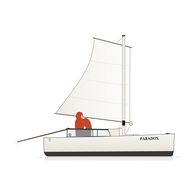
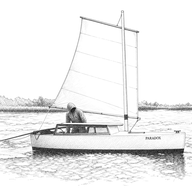
Pen-and-ink illustrations, white pages
- Five approved pen-and-ink drawings of Paradoxes (illustration01 to 05) under the titles of
  chapters 3, 11, 14, 16 and 17, with captions; illustration01 is the overview's picture and
  the icon and lock-screen artwork.
- The old SVG cover is gone.
- The site is always white, with no dark mode, to match the drawings.
- The colophon says the drawings were made with OpenAI gpt-image-2 from photographs.

diff --git a/ch16.html b/ch16.html
@@ -6,12 +6,11 @@
 <meta name="robots" content="noindex, nofollow">
 <title>16. What Paradoxes have done · A guide to the Paradox sailboat</title>
 <meta name="description" content="16. What Paradoxes have done: a chapter of A guide to the Paradox sailboat by Anders Nygaard, to read or to hear.">
-<meta name="theme-color" content="#f6f3ec" media="(prefers-color-scheme: light)">
-<meta name="theme-color" content="#16181a" media="(prefers-color-scheme: dark)">
+<meta name="theme-color" content="#ffffff">
 <link rel="icon" href="cover-192.png" type="image/png">
 <link rel="apple-touch-icon" href="cover-192.png">
 <link rel="manifest" href="manifest.webmanifest">
-<link rel="stylesheet" href="style.css?v=9c5b62d98f">
+<link rel="stylesheet" href="style.css?v=f990e6cea2">
 </head>
 <!-- source: phase 06 - proof reading/ch16-what-paradoxes-have-done.md, updated 2026-10-14 -->
 <body>
@@ -32,6 +31,7 @@
 <p class="blurb"><em>What the fleet has done, the boats and the people who built them, how the boat has been changed and how the design survived without a company.</em></p>
 <p class="kicker">Chapter 16</p>
 <h1>What Paradoxes have done</h1>
+<figure class="illustration"><img src="illustration04.png" width="1280" height="854" alt="A Paradox at the Bosunator Challenge, 2013, a pen-and-ink drawing" decoding="async"><figcaption>A Paradox at the Bosunator Challenge, 2013.</figcaption></figure>
 <h2 id="cape-leeuwin-and-north-to-shark-bay">Cape Leeuwin and north to Shark Bay</h2>
 <p>Geoff Davis set out from Fremantle in February 2011 to do what no other Paradox is recorded as having attempted: take Small Fry around Cape Leeuwin, the point on the continent's southwestern tip where the Indian Ocean meets the Southern Ocean and the weather of both. The approach alone took the better part of a week. He sailed out through the bridges at Fremantle by night, on a favourable wind and tide, and made good progress down the coast to Bunker Bay, near Cape Naturaliste, where he anchored. Bad weather held him there a second night and slowed him further; nearing the cape, conditions turned hard enough that he rode them out some distance offshore before working in to Hamlin Island, about ten miles short of his goal. There his anchor dragged in the night and left the boat aground on the beach. He freed her the next morning and pressed on south.</p>
 <p>The rounding itself, on 22 February, took several hours of repeated attempts against a southeast wind gusting to about 20 knots and a building sea, broken by one lull that let him carry more sail and finally claw around the last stretch of coast. Of the whole passage, not the rounding alone, he wrote to the builders' mailing list: &quot;I found the whole area to be the most menacing place I've ever sailed.&quot; Small Fry had sailed in stronger wind and bigger seas before, always well out to sea; what made this different was everything happening close in at once, reefs and islands scattered everywhere, waves breaking where no reef was visible, conditions changing by the minute and an ugly lee shore under her stern the whole time. Once round, she anchored at Seal Island on a rock bottom for two nights, riding out a 20-knot gust in the island's lee on the second and wishing, Davis admitted, that he had brought more chain and a spare anchor.</p>

diff --git a/ch03.html b/ch03.html
@@ -6,12 +6,11 @@
 <meta name="robots" content="noindex, nofollow">
 <title>3. Paradox · A guide to the Paradox sailboat</title>
 <meta name="description" content="3. Paradox: a chapter of A guide to the Paradox sailboat by Anders Nygaard, to read or to hear.">
-<meta name="theme-color" content="#f6f3ec" media="(prefers-color-scheme: light)">
-<meta name="theme-color" content="#16181a" media="(prefers-color-scheme: dark)">
+<meta name="theme-color" content="#ffffff">
 <link rel="icon" href="cover-192.png" type="image/png">
 <link rel="apple-touch-icon" href="cover-192.png">
 <link rel="manifest" href="manifest.webmanifest">
-<link rel="stylesheet" href="style.css?v=9c5b62d98f">
+<link rel="stylesheet" href="style.css?v=f990e6cea2">
 </head>
 <!-- source: phase 06 - proof reading/ch03-paradox.md, updated 2026-10-14 -->
 <body>
@@ -30,6 +29,7 @@
 <main id="content" class="wrap">
 <p class="kicker">Chapter 3</p>
 <h1>Paradox</h1>
+<figure class="illustration"><img src="illustration01.png" width="1280" height="854" alt="Matt Layden aboard Paradox, a pen-and-ink drawing" decoding="async"><figcaption>Matt Layden aboard Paradox.</figcaption></figure>
 <p>Layden built Paradox in about four months of full-time work, by the fullest account the Bolducs have given, working in the Connecticut woods in 1993 at a cost of around $2,000 in that year's materials. He had no car, so the plywood and everything else needed came to the building site load by load, on his own bicycle trailer. He briefly considered running carbon-fibre tow inside the mast's staves to save weight, but built a plain wood mast instead for the sake of simplicity, the same preference that runs through every other choice in the boat. When she was finished, he launched her by skidding her down a steep ravine to the Salmon River below the site, a method that prompted one builder's own dry comment years afterward: no wonder these little boats have to be built tough.</p>
 <p>Paradox was Layden's fifth home-built boat, and in her the lessons of three earlier boats came together: Swamp Thing's chine runners and simple rig, Little Cruiser's thinking on interior room and on lines run down into the cabin where a sailor could reach every one of them, and Terrapin's hard proof that a narrow, self-righting hull mattered more in the end than a wide, roomy one. She was thirteen feet ten inches long and four feet wide, with no centerboard at all and, by the Bolducs' own count, only three running lines on the whole boat: one to raise the sail, one to reef it and one to sheet it. Little Cruiser, by comparison, carried twice as many.</p>
 <p>She went back to the simpler boom-furled lug sail of Swamp Thing and GJAC rather than Little Cruiser's battened, slab-reefed one, but improved it with a drum so the sail could be reefed from inside the cabin, and where her mast stepped through the deck, as on his earlier boats, he built in a small self-draining well for it to sit in rather than leave the step exposed to the weather. The five things the Bolducs singled out as Paradox's own particular character, taken together, are chine runners, seventy litres of fresh-water ballast, a self-righting hull, positive buoyancy and every line led back into the cabin where a sailor need never leave shelter to work one.</p>

diff --git a/ch14.html b/ch14.html
@@ -6,12 +6,11 @@
 <meta name="robots" content="noindex, nofollow">
 <title>14. Building a Paradox · A guide to the Paradox sailboat</title>
 <meta name="description" content="14. Building a Paradox: a chapter of A guide to the Paradox sailboat by Anders Nygaard, to read or to hear.">
-<meta name="theme-color" content="#f6f3ec" media="(prefers-color-scheme: light)">
-<meta name="theme-color" content="#16181a" media="(prefers-color-scheme: dark)">
+<meta name="theme-color" content="#ffffff">
 <link rel="icon" href="cover-192.png" type="image/png">
 <link rel="apple-touch-icon" href="cover-192.png">
 <link rel="manifest" href="manifest.webmanifest">
-<link rel="stylesheet" href="style.css?v=9c5b62d98f">
+<link rel="stylesheet" href="style.css?v=f990e6cea2">
 </head>
 <!-- source: phase 06 - proof reading/ch14-building-a-paradox.md, updated 2026-10-14 -->
 <body>
@@ -32,6 +31,7 @@
 <p class="blurb"><em>How a Paradox is built, and how she is sailed and lived in. A reader who will never build one can go on to chapter 15.</em></p>
 <p class="kicker">Chapter 14</p>
 <h1>Building a Paradox</h1>
+<figure class="illustration"><img src="illustration03.png" width="1280" height="854" alt="JoHanna at Shipstall Point, Poole Harbour, a pen-and-ink drawing" decoding="async"><figcaption>JoHanna at Shipstall Point, Poole Harbour.</figcaption></figure>
 <h2 id="the-plans">The plans</h2>
 <p>There is nothing to loft and no strongback to build once the plans themselves are in hand. Lofting, drawing a hull's curves out full size on a floor before cutting anything, is how most wooden boats still begin; Layden's own dimensioning system gives every part's shape directly, in millimetres, so a builder measures and cuts rather than draws. A strongback, the heavy jig many plywood hulls are built around, is likewise missing, and Don Elliott, who built The Edge and wrote the booklet builders still turn to, explained why in his own words: &quot;Paradox is built without a strongback. It's the best way to build a plywood boat. You can step in its middle, crouch down inside to measure or fit things. You can roll the hull over easily to work on it anyway you like, you have a lot of open space to do your job, besides, a strongback isn't part of the boat. Who needs the extra work?&quot; The sixth sheet of the set gives the cutting layout, which ten sheets of plywood yield which parts, and the order in which those parts go together.</p>
 <p>Derek Clark needed little more than that layout to get going. A first-time builder from Wolverhampton, in the English Midlands, he rated himself &quot;a mediocre to moderate woodworker&quot; who had not cut a dovetail in twenty years, and held that the design needed no cabinetmaker's standard of work anywhere on it. He built his own Paradox, Enuf, between 2004 and 2006, favoured plastic-handled secondhand chisels picked up cheaply at car-boot sales over anything that needed power, and closed his own published account of the build with a line still quoted back at nervous first-time builders: &quot;You could make this boat with just an half inch chisel.&quot;</p>

diff --git a/style.css b/style.css
@@ -1,28 +1,17 @@
-/* style.css: the web edition's one stylesheet. Light and dark follow the phone's setting. */
+/* style.css: the web edition's one stylesheet. Always white, like the paper of the book's ink drawings
+   (owner's rule 2026-10-19), so there is no dark mode. */
 :root {
-  --bg: #f6f3ec;
-  --fg: #24221f;
-  --muted: #6c675e;
-  --line: #dcd5c8;
-  --soft: #ece7dc;
+  --bg: #ffffff;
+  --fg: #222222;
+  --muted: #66645f;
+  --line: #e2e1de;
+  --soft: #f3f3f1;
   --accent: #b5412a;
   --on-accent: #ffffff;
-  --bar: rgba(246, 243, 236, 0.97);
+  --bar: rgba(255, 255, 255, 0.97);
   --serif: Charter, "Bitstream Charter", "Iowan Old Style", "Palatino Linotype", Palatino, Georgia, serif;
   --sans: system-ui, -apple-system, "Segoe UI", Roboto, "Helvetica Neue", Arial, sans-serif;
-  color-scheme: light dark;
-}
-@media (prefers-color-scheme: dark) {
-  :root {
-    --bg: #16181a;
-    --fg: #e6e2da;
-    --muted: #a19c93;
-    --line: #33373a;
-    --soft: #212427;
-    --accent: #e8735a;
-    --on-accent: #16181a;
-    --bar: rgba(22, 24, 26, 0.97);
-  }
+  color-scheme: light;
 }
 
 * { box-sizing: border-box; }
@@ -95,7 +84,12 @@ footer { padding-bottom: 2.5rem; font-family: var(--sans); }
 
 /* overview */
 .hero { text-align: center; padding-top: 1rem; }
-.hero img { width: 100%; height: auto; max-width: 30rem; border-radius: 10px; background: #fff; }
+.hero img { width: 100%; height: auto; max-width: 34rem; }
+
+/* chapter illustrations: ink drawings on white paper, set under the chapter title */
+.illustration { margin: 1rem 0 1.8rem; }
+.illustration img { display: block; width: 100%; height: auto; }
+.illustration figcaption { margin-top: 0.2rem; text-align: center; font: italic 0.9rem/1.4 var(--serif); color: var(--muted); }
 .hero h1 { margin: 1.2rem 0 0.4rem; }
 .byline { font-size: 1.15rem; margin: 0; }
 .edition { color: var(--muted); font-size: 0.95rem; }

diff --git a/index.html b/index.html
@@ -6,17 +6,16 @@
 <meta name="robots" content="noindex, nofollow">
 <title>A guide to the Paradox sailboat</title>
 <meta name="description" content="A guide to the Paradox sailboat by Anders Nygaard: every chapter to read or to hear.">
-<meta name="theme-color" content="#f6f3ec" media="(prefers-color-scheme: light)">
-<meta name="theme-color" content="#16181a" media="(prefers-color-scheme: dark)">
+<meta name="theme-color" content="#ffffff">
 <link rel="icon" href="cover-192.png" type="image/png">
 <link rel="apple-touch-icon" href="cover-192.png">
 <link rel="manifest" href="manifest.webmanifest">
-<link rel="stylesheet" href="style.css?v=9c5b62d98f">
+<link rel="stylesheet" href="style.css?v=f990e6cea2">
 </head>
 <body class="index">
 <main class="wrap">
 <header class="hero">
-<img src="cover.svg" width="1920" height="1460" alt="A drawing of Paradox under sail, after a photograph of Matt Layden aboard">
+<img src="illustration01.png" width="1280" height="854" alt="A pen-and-ink drawing of Matt Layden aboard Paradox under sail">
 <h1>A guide to the Paradox sailboat</h1>
 <p class="byline">Anders Nygaard</p>
 <p class="edition">Second edition. Proof-reading draft, October 2026.</p>
@@ -75,7 +74,7 @@
 </ol>
 
 <footer class="colophon">
-<p>Text updated 16 October 2026. The narration is read by an AI voice (OpenAI gpt-4o-mini-tts, voice Ash).</p>
+<p>Text updated 16 October 2026. The narration is read by an AI voice (OpenAI gpt-4o-mini-tts, voice Ash). The pen-and-ink drawings were made with OpenAI gpt-image-2 from photographs of the boats.</p>
 </footer>
 </main>
 <script type="application/json" id="page-data">{"kind":"index"}</script>

diff --git a/ch11.html b/ch11.html
@@ -6,12 +6,11 @@
 <meta name="robots" content="noindex, nofollow">
 <title>11. Mast, rig and sail · A guide to the Paradox sailboat</title>
 <meta name="description" content="11. Mast, rig and sail: a chapter of A guide to the Paradox sailboat by Anders Nygaard, to read or to hear.">
-<meta name="theme-color" content="#f6f3ec" media="(prefers-color-scheme: light)">
-<meta name="theme-color" content="#16181a" media="(prefers-color-scheme: dark)">
+<meta name="theme-color" content="#ffffff">
 <link rel="icon" href="cover-192.png" type="image/png">
 <link rel="apple-touch-icon" href="cover-192.png">
 <link rel="manifest" href="manifest.webmanifest">
-<link rel="stylesheet" href="style.css?v=9c5b62d98f">
+<link rel="stylesheet" href="style.css?v=f990e6cea2">
 </head>
 <!-- source: phase 06 - proof reading/ch11-mast-rig-and-sail.md, updated 2026-10-14 -->
 <body>
@@ -30,6 +29,7 @@
 <main id="content" class="wrap">
 <p class="kicker">Chapter 11</p>
 <h1>Mast, rig and sail</h1>
+<figure class="illustration"><img src="illustration02.png" width="1280" height="854" alt="A Paradox on Lake Thunderbird, Oklahoma, 2017, a pen-and-ink drawing" decoding="async"><figcaption>A Paradox on Lake Thunderbird, Oklahoma, 2017.</figcaption></figure>
 <blockquote class="epigraph">
 <p>I was surprised at the slenderness of the upper part of the spar, but that's exactly where economy of weight is needed, along with flexibility for dissipating sudden loading in gusty conditions.</p>
 <p>Bill Serjeant, Bill's Log, &quot;The Mast 6,&quot; 19 October 2005</p>

diff --git a/ch17.html b/ch17.html
@@ -6,12 +6,11 @@
 <meta name="robots" content="noindex, nofollow">
 <title>17. Boats and the people who built them · A guide to the Paradox sailboat</title>
 <meta name="description" content="17. Boats and the people who built them: a chapter of A guide to the Paradox sailboat by Anders Nygaard, to read or to hear.">
-<meta name="theme-color" content="#f6f3ec" media="(prefers-color-scheme: light)">
-<meta name="theme-color" content="#16181a" media="(prefers-color-scheme: dark)">
+<meta name="theme-color" content="#ffffff">
 <link rel="icon" href="cover-192.png" type="image/png">
 <link rel="apple-touch-icon" href="cover-192.png">
 <link rel="manifest" href="manifest.webmanifest">
-<link rel="stylesheet" href="style.css?v=9c5b62d98f">
+<link rel="stylesheet" href="style.css?v=f990e6cea2">
 </head>
 <!-- source: phase 06 - proof reading/ch17-boats-and-builders.md, updated 2026-10-14 -->
 <body>
@@ -30,6 +29,7 @@
 <main id="content" class="wrap">
 <p class="kicker">Chapter 17</p>
 <h1>Boats and the people who built them</h1>
+<figure class="illustration"><img src="illustration05.png" width="1280" height="854" alt="Scout, Sean Mulligan's Paradox, a pen-and-ink drawing" decoding="async"><figcaption>Scout, Sean Mulligan's Paradox.</figcaption></figure>
 <blockquote class="epigraph">
 <p>Fortunately every time I have gone beyond sensible and into stupid my Paradox has bailed me out.</p>
 <p>Alastair Law, Paradox builders mailing list, 31 March 2015</p>

diff --git a/ch19.html b/ch19.html
@@ -6,12 +6,11 @@
 <meta name="robots" content="noindex, nofollow">
 <title>19. How the design survived without a company · A guide to the Paradox sailboat</title>
 <meta name="description" content="19. How the design survived without a company: a chapter of A guide to the Paradox sailboat by Anders Nygaard, to read or to hear.">
-<meta name="theme-color" content="#f6f3ec" media="(prefers-color-scheme: light)">
-<meta name="theme-color" content="#16181a" media="(prefers-color-scheme: dark)">
+<meta name="theme-color" content="#ffffff">
 <link rel="icon" href="cover-192.png" type="image/png">
 <link rel="apple-touch-icon" href="cover-192.png">
 <link rel="manifest" href="manifest.webmanifest">
-<link rel="stylesheet" href="style.css?v=9c5b62d98f">
+<link rel="stylesheet" href="style.css?v=f990e6cea2">
 </head>
 <!-- source: phase 06 - proof reading/ch19-how-the-design-survived.md, updated 2026-10-14 -->
 <body>

diff --git a/appendix-d.html b/appendix-d.html
@@ -6,12 +6,11 @@
 <meta name="robots" content="noindex, nofollow">
 <title>Appendix D. In Layden's own words · A guide to the Paradox sailboat</title>
 <meta name="description" content="Appendix D. In Layden's own words: a chapter of A guide to the Paradox sailboat by Anders Nygaard, to read or to hear.">
-<meta name="theme-color" content="#f6f3ec" media="(prefers-color-scheme: light)">
-<meta name="theme-color" content="#16181a" media="(prefers-color-scheme: dark)">
+<meta name="theme-color" content="#ffffff">
 <link rel="icon" href="cover-192.png" type="image/png">
 <link rel="apple-touch-icon" href="cover-192.png">
 <link rel="manifest" href="manifest.webmanifest">
-<link rel="stylesheet" href="style.css?v=9c5b62d98f">
+<link rel="stylesheet" href="style.css?v=f990e6cea2">
 </head>
 <!-- source: phase 06 - proof reading/appendix-d-laydens-own-words.md, updated 2026-10-14 -->
 <body>

diff --git a/ch05.html b/ch05.html
@@ -6,12 +6,11 @@
 <meta name="robots" content="noindex, nofollow">
 <title>5. The 2003 Everglades Challenge · A guide to the Paradox sailboat</title>
 <meta name="description" content="5. The 2003 Everglades Challenge: a chapter of A guide to the Paradox sailboat by Anders Nygaard, to read or to hear.">
-<meta name="theme-color" content="#f6f3ec" media="(prefers-color-scheme: light)">
-<meta name="theme-color" content="#16181a" media="(prefers-color-scheme: dark)">
+<meta name="theme-color" content="#ffffff">
 <link rel="icon" href="cover-192.png" type="image/png">
 <link rel="apple-touch-icon" href="cover-192.png">
 <link rel="manifest" href="manifest.webmanifest">
-<link rel="stylesheet" href="style.css?v=9c5b62d98f">
+<link rel="stylesheet" href="style.css?v=f990e6cea2">
 </head>
 <!-- source: phase 06 - proof reading/ch05-everglades-challenge-2003.md, updated 2026-10-14 -->
 <body>

diff --git a/appendix-e.html b/appendix-e.html
@@ -6,12 +6,11 @@
 <meta name="robots" content="noindex, nofollow">
 <title>Appendix E. Sources and method · A guide to the Paradox sailboat</title>
 <meta name="description" content="Appendix E. Sources and method: a chapter of A guide to the Paradox sailboat by Anders Nygaard, to read or to hear.">
-<meta name="theme-color" content="#f6f3ec" media="(prefers-color-scheme: light)">
-<meta name="theme-color" content="#16181a" media="(prefers-color-scheme: dark)">
+<meta name="theme-color" content="#ffffff">
 <link rel="icon" href="cover-192.png" type="image/png">
 <link rel="apple-touch-icon" href="cover-192.png">
 <link rel="manifest" href="manifest.webmanifest">
-<link rel="stylesheet" href="style.css?v=9c5b62d98f">
+<link rel="stylesheet" href="style.css?v=f990e6cea2">
 </head>
 <!-- source: phase 06 - proof reading/appendix-e-sources-and-method.md, updated 2026-10-14 -->
 <body>

diff --git a/ch12.html b/ch12.html
@@ -6,12 +6,11 @@
 <meta name="robots" content="noindex, nofollow">
 <title>12. Ballast and self-righting · A guide to the Paradox sailboat</title>
 <meta name="description" content="12. Ballast and self-righting: a chapter of A guide to the Paradox sailboat by Anders Nygaard, to read or to hear.">
-<meta name="theme-color" content="#f6f3ec" media="(prefers-color-scheme: light)">
-<meta name="theme-color" content="#16181a" media="(prefers-color-scheme: dark)">
+<meta name="theme-color" content="#ffffff">
 <link rel="icon" href="cover-192.png" type="image/png">
 <link rel="apple-touch-icon" href="cover-192.png">
 <link rel="manifest" href="manifest.webmanifest">
-<link rel="stylesheet" href="style.css?v=9c5b62d98f">
+<link rel="stylesheet" href="style.css?v=f990e6cea2">
 </head>
 <!-- source: phase 06 - proof reading/ch12-ballast-and-self-righting.md, updated 2026-10-14 -->
 <body>
